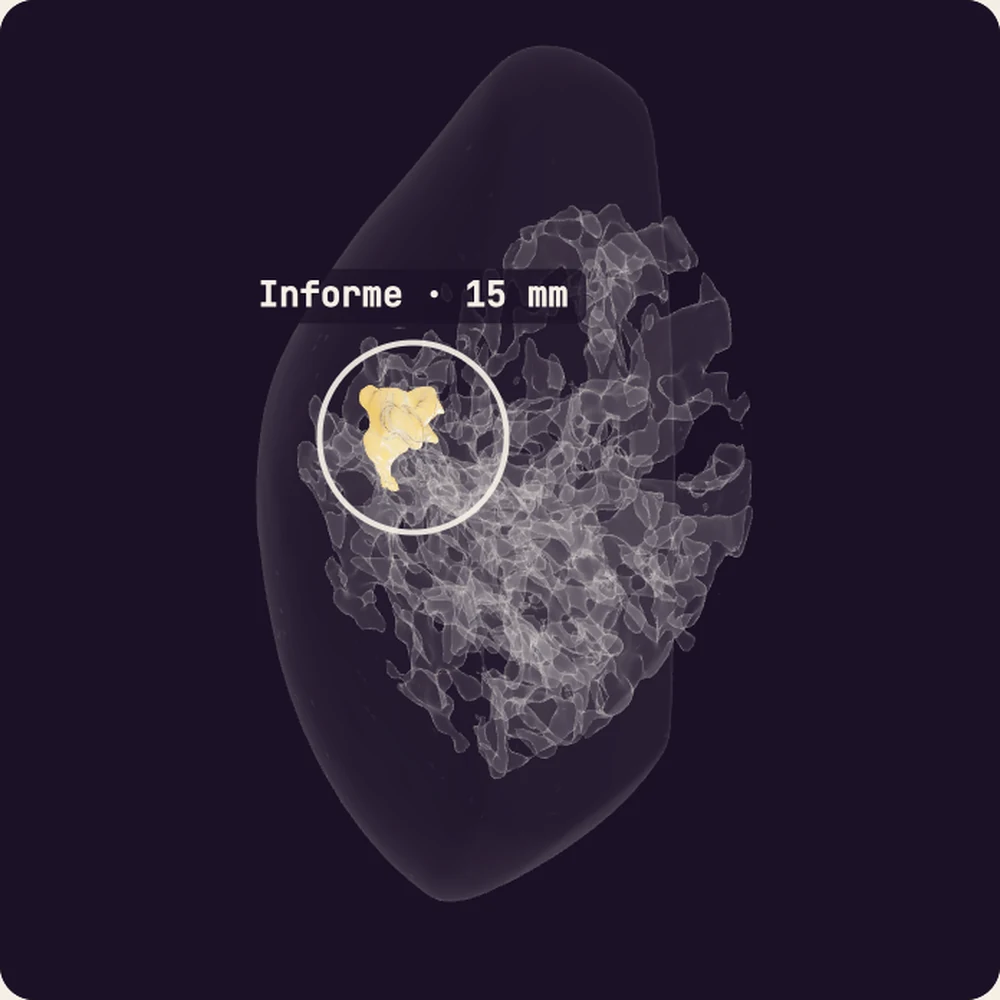
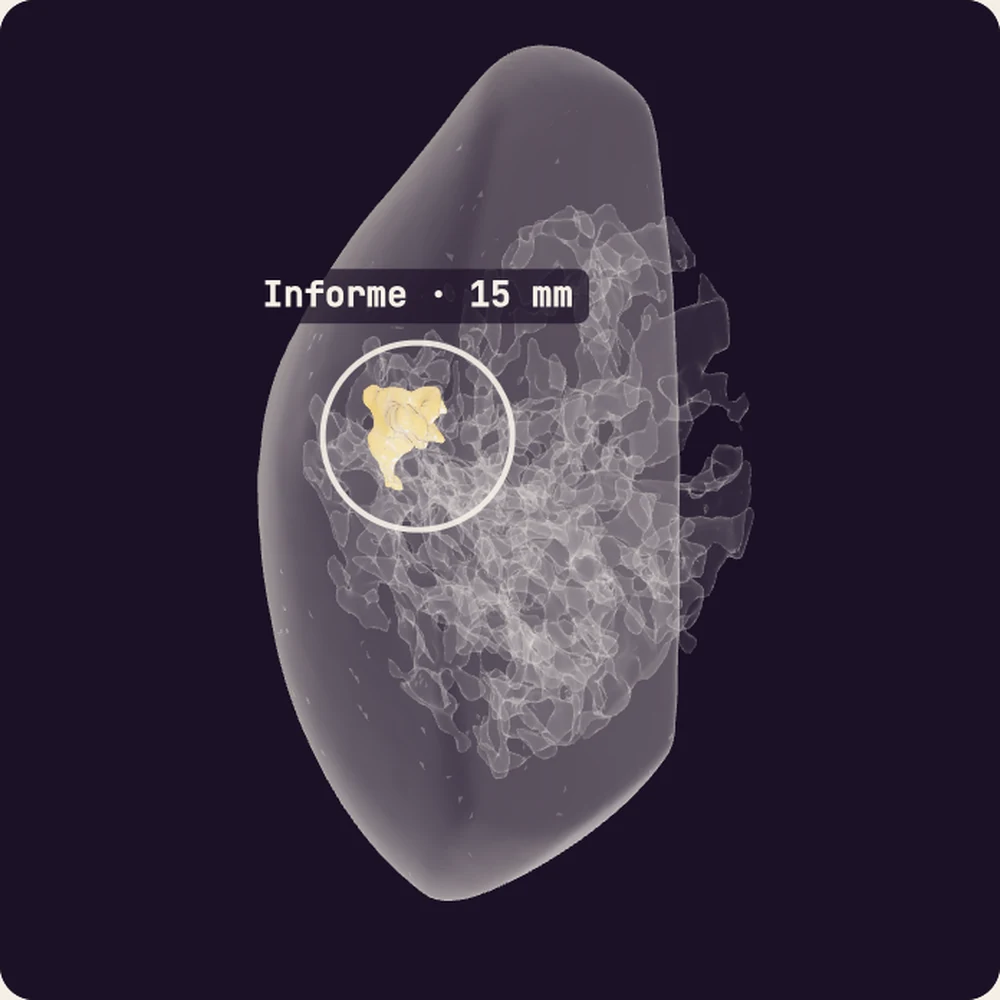
feat(lesiones): que se vea la mama
Miriam, 20-sep: «a mí no me importa que se vea la mama». El contorno iba casi en un susurro
(Fresnel 0,015-0,16) por una prudencia que era nuestra, no suya. Ahora se ve: 0,11-0,62.

Lo que se cuida no es taparla, es que se lea como una reconstrucción médica y no como una
fotografía — mate, sin brillo especular de piel, y traslúcida para que el tumor de dentro no
quede escondido detrás de ella.

Sigue sin haber pezón ni areola en la malla: no es pudor, es que no están en el dato (la piel
se erosiona 4 mm antes de mallar, con test). De paso, eso es justo lo que la norma de Meta
señala como límite para retirar contenido: «pezones femeninos visibles».

Imagen de respaldo regenerada.

Changed region(s): [[0.248, 0.031, 0.744, 0.899]]

diff --git a/app/components/BreastView.client.vue b/app/components/BreastView.client.vue
@@ -69,12 +69,14 @@ const tejidoMat = (lado: THREE.Side) => fresnel(new THREE.MeshPhysicalMaterial({
   color: 0xe8dcc8, roughness: 0.45, clearcoat: 0.5, clearcoatRoughness: 0.3,
   sheen: 0.25, sheenRoughness: 0.7, sheenColor: new THREE.Color(0xfff6e4),
   transparent: true, depthWrite: false, side: lado }), 0.05, 0.38, 2.4)
-// La ENVOLTURA de la mama: la superficie del pecho, casi un susurro. Va muy transparente y sin
-// brillo especular fuerte para que se lea como el contorno de una pieza anatómica y no como piel
-// fotográfica; lo que tiene que mirarse sigue siendo lo de dentro.
+// La ENVOLTURA de la mama: la superficie del pecho. Miriam, 20-sep: «a mí no me importa que se
+// vea la mama». Así que se ve — es la pieza, y una pieza que no se distingue no informa de nada.
+// Lo que se cuida no es taparla, es que se lea como una reconstrucción médica y no como una
+// fotografía: mate, sin brillo especular de piel, y traslúcida para que el tumor de dentro no
+// quede escondido detrás de ella.
 const envolturaMat = (lado: THREE.Side) => fresnel(new THREE.MeshPhysicalMaterial({
-  color: 0xd8cfc4, roughness: 0.7, clearcoat: 0.15, clearcoatRoughness: 0.6,
-  transparent: true, depthWrite: false, side: lado }), 0.015, 0.16, 3.0)
+  color: 0xdccfc0, roughness: 0.78, clearcoat: 0.1, clearcoatRoughness: 0.7,
+  transparent: true, depthWrite: false, side: lado }), 0.11, 0.62, 2.0)
 // El mismo dorado brillante de las lesiones del hígado: una sola gramática de color en la página.
 const lesionMat = () => new THREE.MeshPhysicalMaterial({
   color: 0xf2b23c, roughness: 0.3, clearcoat: 0.85, clearcoatRoughness: 0.1,
